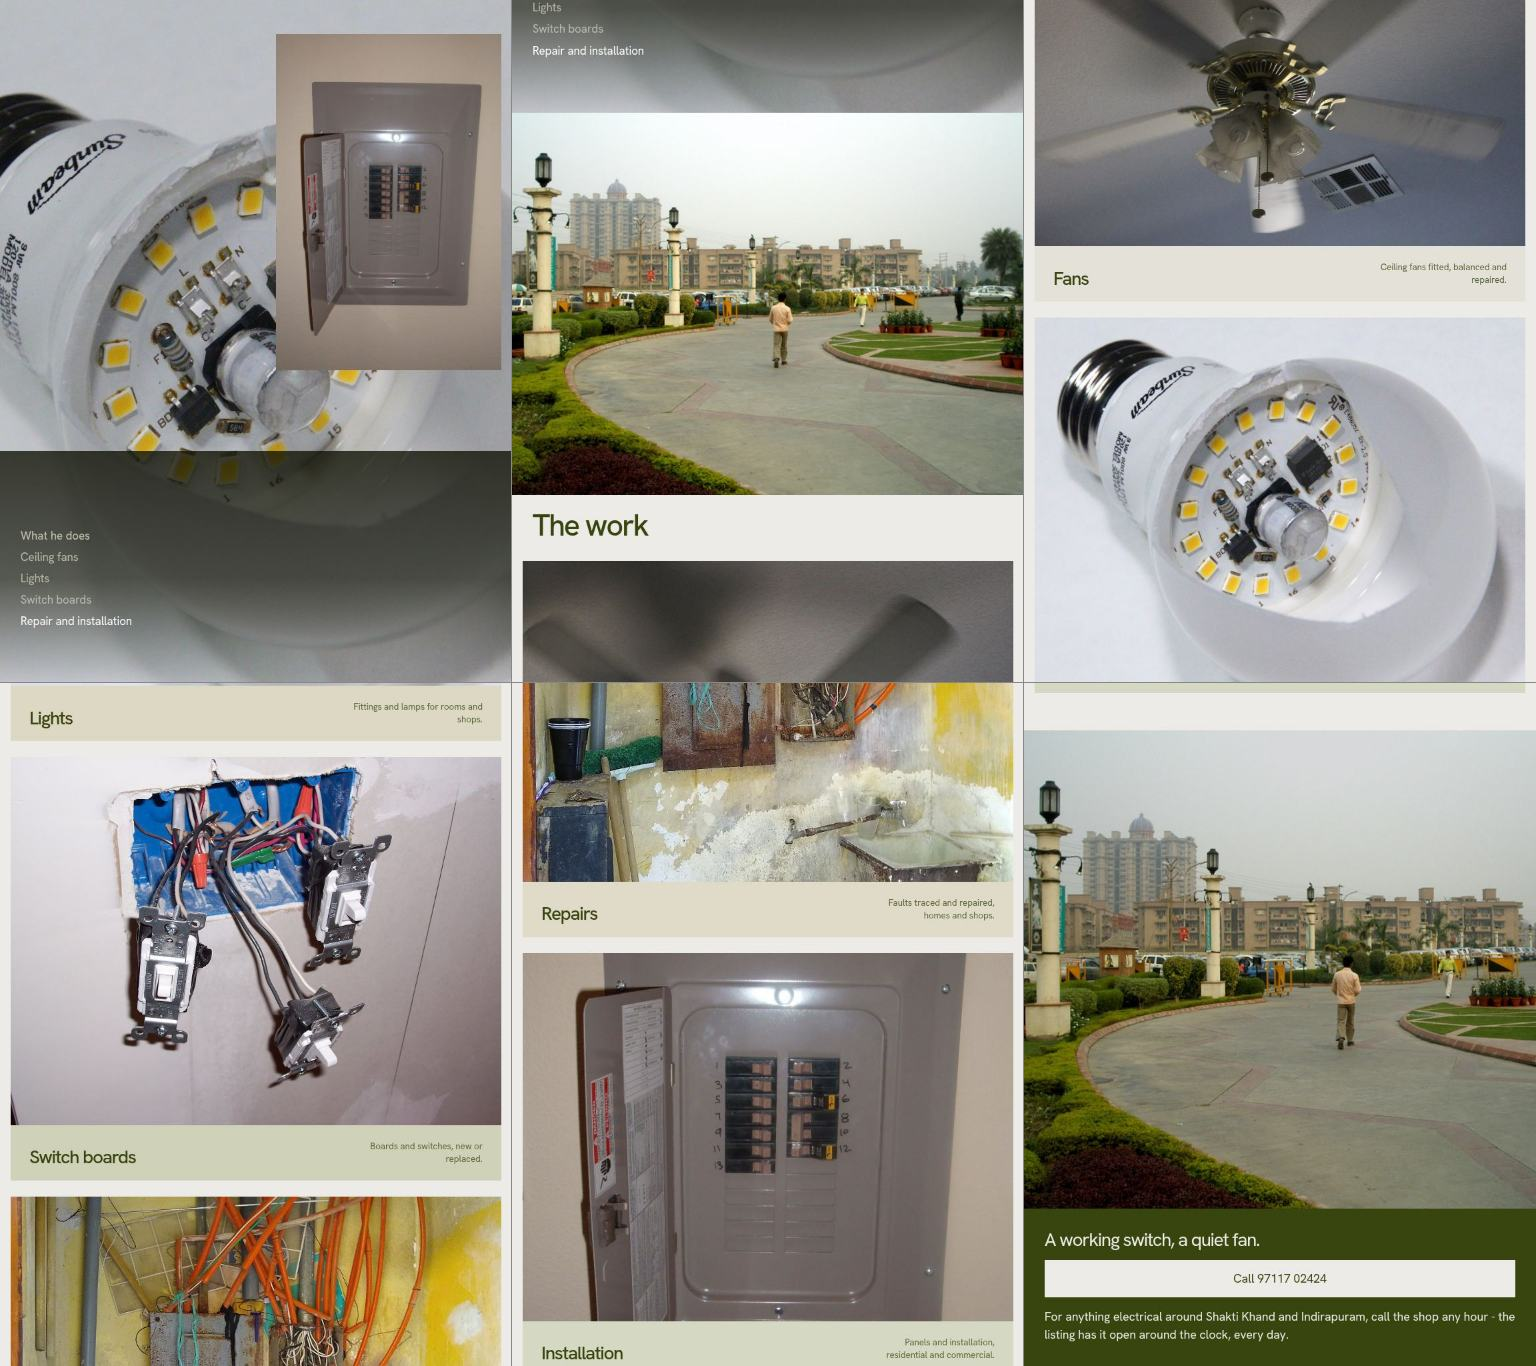
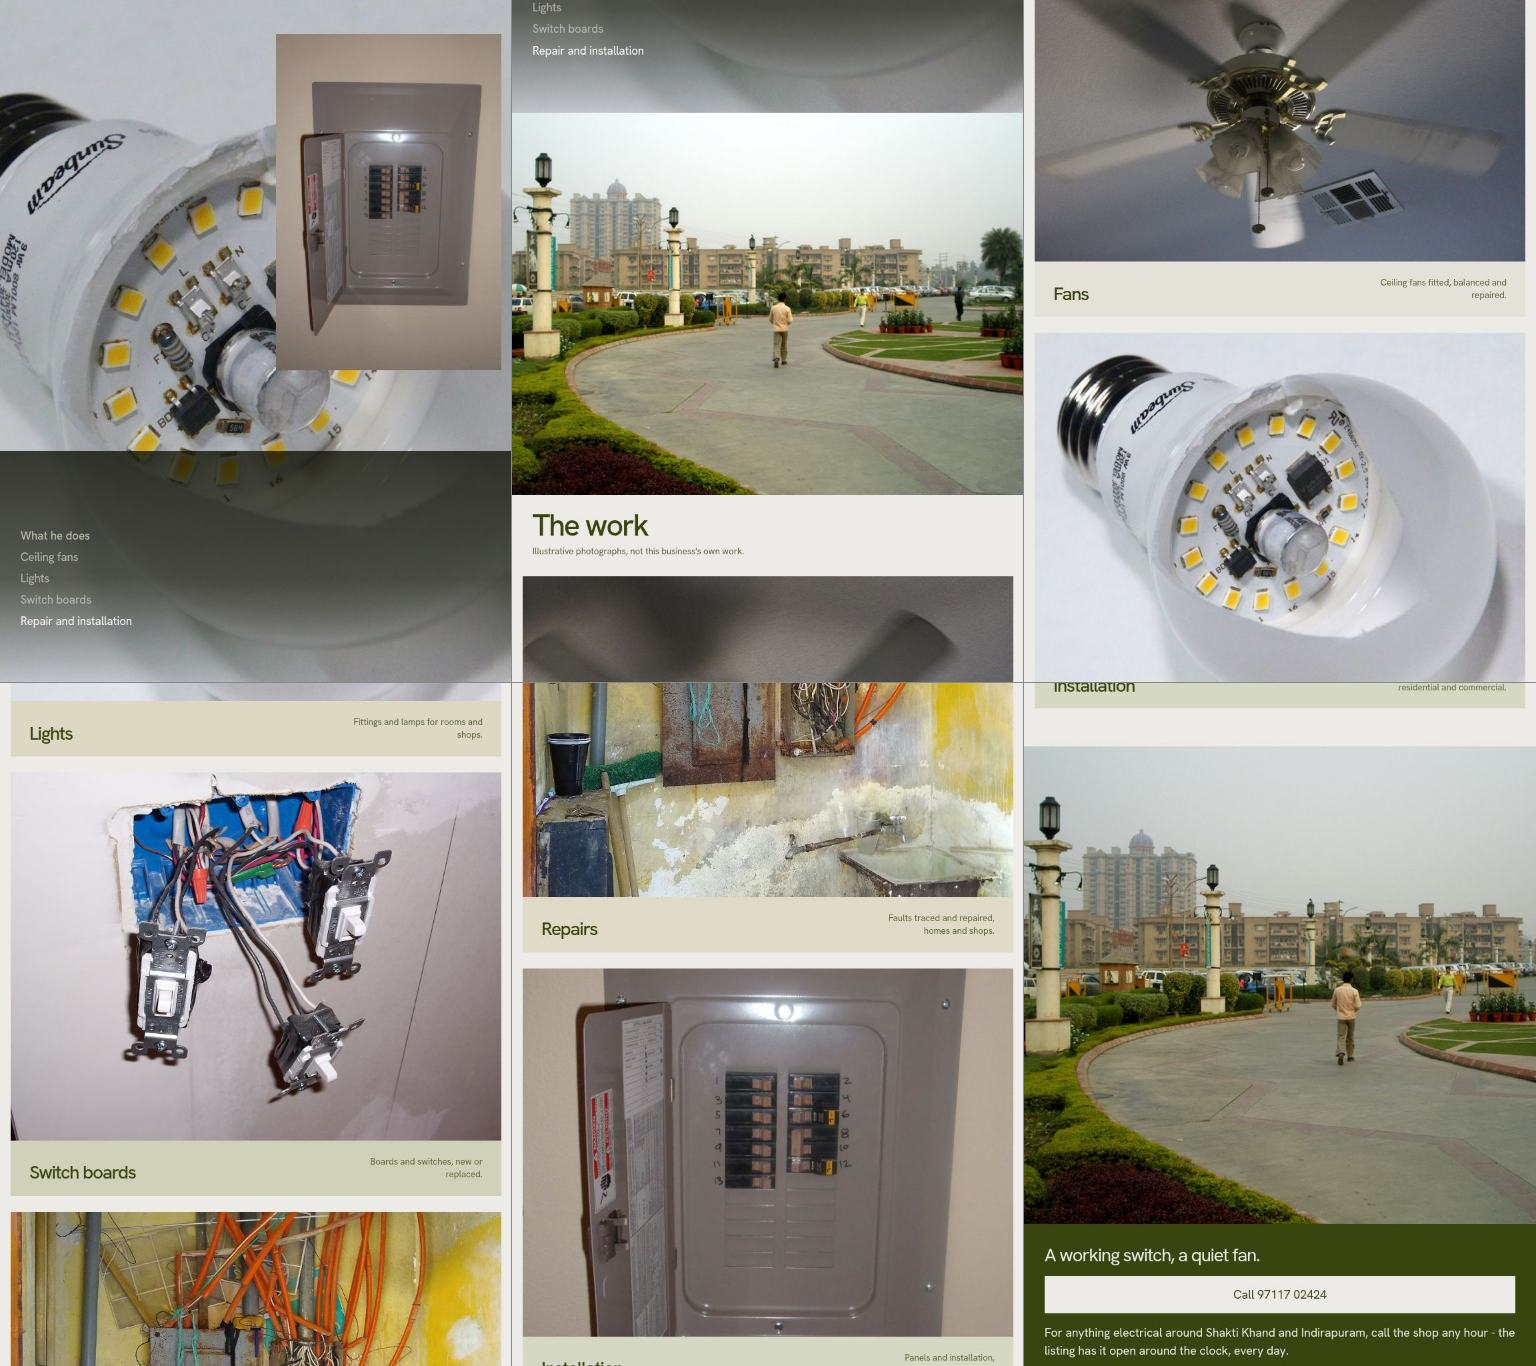
V35: illustrative-photograph label near The work gallery (parent note); RUNBOOK delivery state

diff --git a/mama-electrical-ghaziabad/index.html b/mama-electrical-ghaziabad/index.html
@@ -80,6 +80,7 @@ h1,h2,h3{font-weight:500;letter-spacing:-0.05em;line-height:0.9}
 .crossstage{position:sticky;top:0;height:100svh;overflow:hidden;background:#101204}
 .crossstage>img.back{position:absolute;inset:0;width:100%;height:100%;object-fit:cover;filter:brightness(0.6)}
 .crossstage .xhead{position:absolute;top:48px;left:var(--margin);color:var(--accent-ink);font-size:var(--step-head);z-index:2}
+.crossstage .xnote{position:absolute;top:calc(48px + var(--step-head)*1.15);left:var(--margin);color:var(--accent-ink);font-size:var(--step-small);z-index:2;max-width:34ch}
 .track{position:absolute;top:50%;left:0;transform:translateY(-50%);display:flex;gap:40px;padding-left:48vw;will-change:transform}
 .xcard{flex:none;width:min(720px,78vw);height:min(560px,70svh);background:var(--bg);display:flex;flex-direction:column}
 .xcard .xp{flex:0 0 68%;overflow:hidden}
@@ -151,6 +152,7 @@ h1,h2,h3{font-weight:500;letter-spacing:-0.05em;line-height:0.9}
   .crossstage{position:static;height:auto;overflow:visible;background:var(--bg)}
   .crossstage>img.back{position:static;height:56svh;filter:none;object-fit:cover}
   .crossstage .xhead{position:static;color:var(--ink);padding:26px var(--margin) 8px}
+  .crossstage .xnote{position:static;color:var(--muted);padding:0 var(--margin) 4px;font-size:var(--step-small);max-width:none}
   .track{position:static;transform:none!important;flex-direction:column;gap:24px;padding:24px 16px 56px}
   .xcard{width:100%;height:auto}
   .xcard .xt{opacity:1}
@@ -233,6 +235,7 @@ h1,h2,h3{font-weight:500;letter-spacing:-0.05em;line-height:0.9}
   <section class="crossstage">
     <img class="back" src="assets/vaibhav-khand-indirapuram-ghaziabad.jpg" alt="Indirapuram, Ghaziabad" loading="lazy" decoding="async">
     <h2 class="xhead rv">The work</h2>
+    <p class="xnote rv">Illustrative photographs, not this business's own work.</p>
     <div class="track" id="track">
       <div class="xcard t1"><div class="xp"><img src="assets/ceiling-fan-mid-spin.jpg" alt="Ceiling fan" loading="lazy" decoding="async"></div><div class="xt"><h3>Fans</h3><p>Ceiling fans fitted, balanced and repaired.</p></div></div>
       <div class="xcard t2"><div class="xp"><img src="assets/led-e27-light-bulb-1134-cropped.jpg" alt="LED bulb" loading="lazy" decoding="async"></div><div class="xt"><h3>Lights</h3><p>Fittings and lamps for rooms and shops.</p></div></div>

diff --git a/RUNBOOK.md b/RUNBOOK.md
@@ -124,9 +124,9 @@ Ready leads live in `nowebsite_ready`.
   Parvati Electricals V22 (type and nothing else: Epilogue 900, orange/sky/lime chapters + crimson accent; masked two-line headline "Ten years / of current."; poster-scale capabilities; HOME/SHOP comparison; CALL band; name-first lime footer; 4 licensed photos incl Gulbarga Fort; email gangadhars@gmail.com TBR-confirmed; commit c3f04a7),
   Raj Electrician Kalyan V24 (the name as a monument: Panchang/Switzer via Fontshare, night #0a0d14 + cornflower #5a9bfc; RAJ 26vw / ELECTRICIAN 6.7vw stacked monument hero with corner texts + ink call button; intro + facts row (Mon-Sun 8am-10pm, Sonar Pada, no-obligation quotes per listing); caps columns At home/At work/Day to day with hover descriptions; 4-panel unequal strip (wiring/fan/breaker/Kalyan yard); inverted One name/to call CTA; inverted footer columns + wordmark; scaling-wordmark scroll JS; mobile corner collision fixed; email singhrajkumar1995.rs@gmail.com TBR-confirmed; commit 0aaf699),
   Ashish Rasekar Electrician V33 (the specimen catalogue: STIX Two Text, sheet-and-biro white/black/grey + blue #1a4be0; split hero with sticky specimen viewer swapping item+caption per catalogue entry; 7 catalogue rows with 180px thumbs + alternating surface bands + listing-sourced specs; tap-a-need reply card; 4-card dealt fan (reduced-motion-safe default fan - cards visible without JS); frame run with lifted Nagpur-night-street drift; tile footer; email ashish.rasekar37@gmail.com TBR-confirmed; commit 0d12223; inspector note: its full-page capture does not count a sticky column past the first screen, so sticky-split designs need real content mass in the text column),
-  Mama Electrical And Home Appliances V35 (the pinned poster: Hanken Grotesk 400/500, olive #38450f on bone #ecebe7; MAMA/ELECTRICAL split to sticky corners with mix-blend over hero + 2 pass panels, fading out (visibility) when the reading section arrives; reading section; stepping-statement scene over a dimmed bulb photo with per-step mini photo pairs and gradient scrim; 5 cards crossing an Indirapuram backdrop; CTA + olive footer with giant cropped MAMA mark; 6 licensed photos incl real Indirapuram; email ajay.rajpoot203@gmail.com TBR-confirmed; commits 3087f22 + cbdda3e; inspector lesson: a sticky overlay pinned with margin-bottom:-100svh overshoots one full viewport past its section and its glyph/hit boxes keep covering later text even at opacity:0 - fade pinned layers to visibility:hidden via IntersectionObserver before the next section's text arrives),
+  Mama Electrical And Home Appliances V35 (the pinned poster: Hanken Grotesk 400/500, olive #38450f on bone #ecebe7; MAMA/ELECTRICAL split to sticky corners with mix-blend over hero + 2 pass panels, fading out (visibility) when the reading section arrives; reading section; stepping-statement scene over a dimmed bulb photo with per-step mini photo pairs and gradient scrim; 5 cards crossing an Indirapuram backdrop; CTA + olive footer with giant cropped MAMA mark; 6 licensed photos incl real Indirapuram; email ajay.rajpoot203@gmail.com TBR-confirmed; commits 3087f22 + cbdda3e + xnote label; inspector lesson: a sticky overlay pinned with margin-bottom:-100svh overshoots one full viewport past its section and its glyph/hit boxes keep covering later text even at opacity:0 - fade pinned layers to visibility:hidden via IntersectionObserver before the next section's text arrives),
   Mahadev Auto Services V37 (the well-kept board: lunar + bronze; cropped name band + standfirst, links row, statement tiles, zigzag light cell, picker service rows, one-image-cut-across-tiles board (6x4 desktop / 3x6 mobile), SVG block wordmark footer; commits 77d641e + 096b12b revision (compact hero tiles, readable mobile wordmark, listing-attributed claims); HELD OUT of the no-website batch per parent Nov 2: business already runs mahadev-auto-services.grexa.site, so it is a possible upgrade preview, not an approved upgrade pitch).
-- Delivery state: V35 deployed live Nov 4 18:47 IST (cbdda3e), reported to parent for the consolidated batch, not yet delivered to Akhil; V15 delivered to Akhil Nov 3; Momai V41 + corrected Parvati V22 + Raj V24 DELIVERED to Akhil Nov 4 09:46 IST via WhatsApp; Ashish Rasekar V33 DELIVERED to Akhil Nov 4 13:07 IST via WhatsApp (live fan screenshot + URL, outreach-held caveat) after parent accepted the fan-occlusion fix (non-overlapping vw-capped card spacing, commit 2cef80c) and the single-Email fix. Consolidated delivery COMPLETE - no pending deliveries. V41 mobile nav wrap fixed (commit 1fc5ec9). Parvati 10-years claim re-verified live Nov 4 (TBR: 'has 10 years of experience in the electrical field'). All sends remain bounce-held (no authorization change Nov 4 09:46).
+- Delivery state: V35 DELIVERED to Akhil Nov 4 18:49 IST by parent via WhatsApp (mobile screenshot + live URL, outreach-held caveat); illustrative-imagery label added near 'The work' gallery per parent (visible contextual note, not footer-only); V15 delivered to Akhil Nov 3; Momai V41 + corrected Parvati V22 + Raj V24 DELIVERED to Akhil Nov 4 09:46 IST via WhatsApp; Ashish Rasekar V33 DELIVERED to Akhil Nov 4 13:07 IST via WhatsApp (live fan screenshot + URL, outreach-held caveat) after parent accepted the fan-occlusion fix (non-overlapping vw-capped card spacing, commit 2cef80c) and the single-Email fix. Consolidated delivery COMPLETE - no pending deliveries. V41 mobile nav wrap fixed (commit 1fc5ec9). Parvati 10-years claim re-verified live Nov 4 (TBR: 'has 10 years of experience in the electrical field'). All sends remain bounce-held (no authorization change Nov 4 09:46).
 - position:sticky gotcha (V33, Nov 4): overflow-x:hidden on html+body makes body the scroll container and SILENTLY breaks every sticky section on the page (fan stage scrolled away, leaving empty pin screens). Use overflow-x:clip instead - same clipping, no scroll container. Verify sticky pins with a real scrolled screenshot before shipping any pinned design.
 - inspect.mjs gotcha: always run with a FILE target (inspect.mjs index.html), never a directory (.) - the directory mode makes every <img> report broken. A <video> element in the page reproducibly breaks the inspector's image loading too (bisected on V15); use a slow photo drift as the moving picture and defend the no-footage WARN.
 - Live URLs follow the pattern https://agilkatakam.github.io/cafe-sites/<folder>/ .
